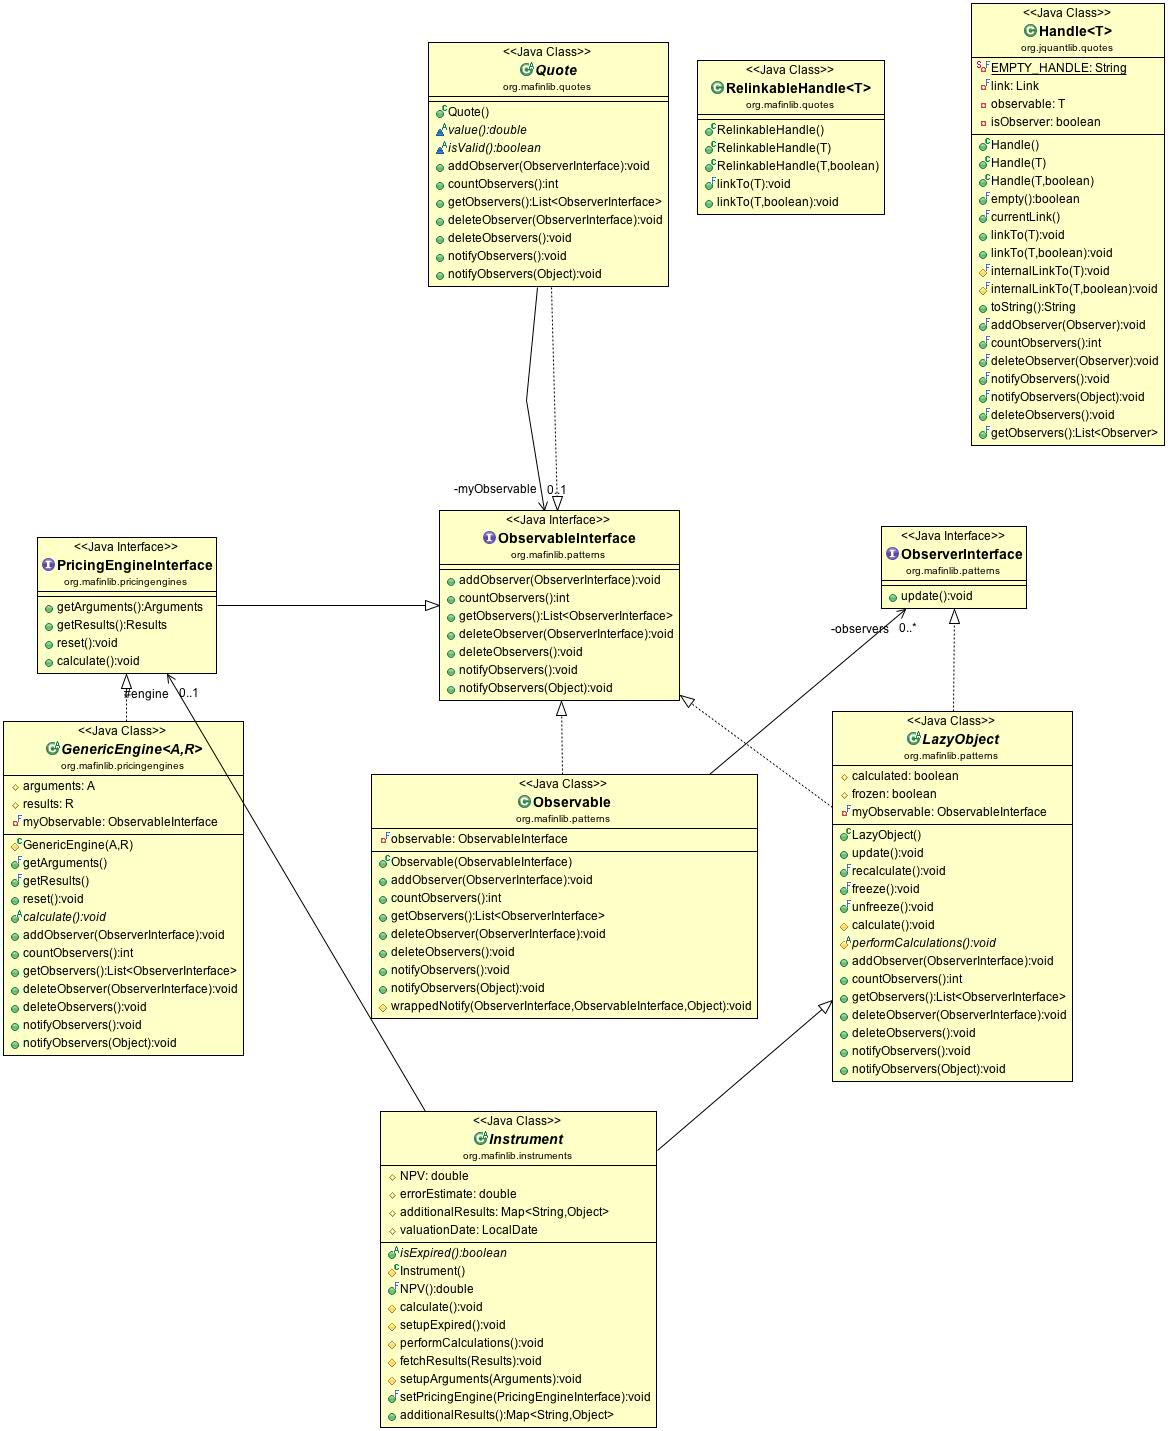
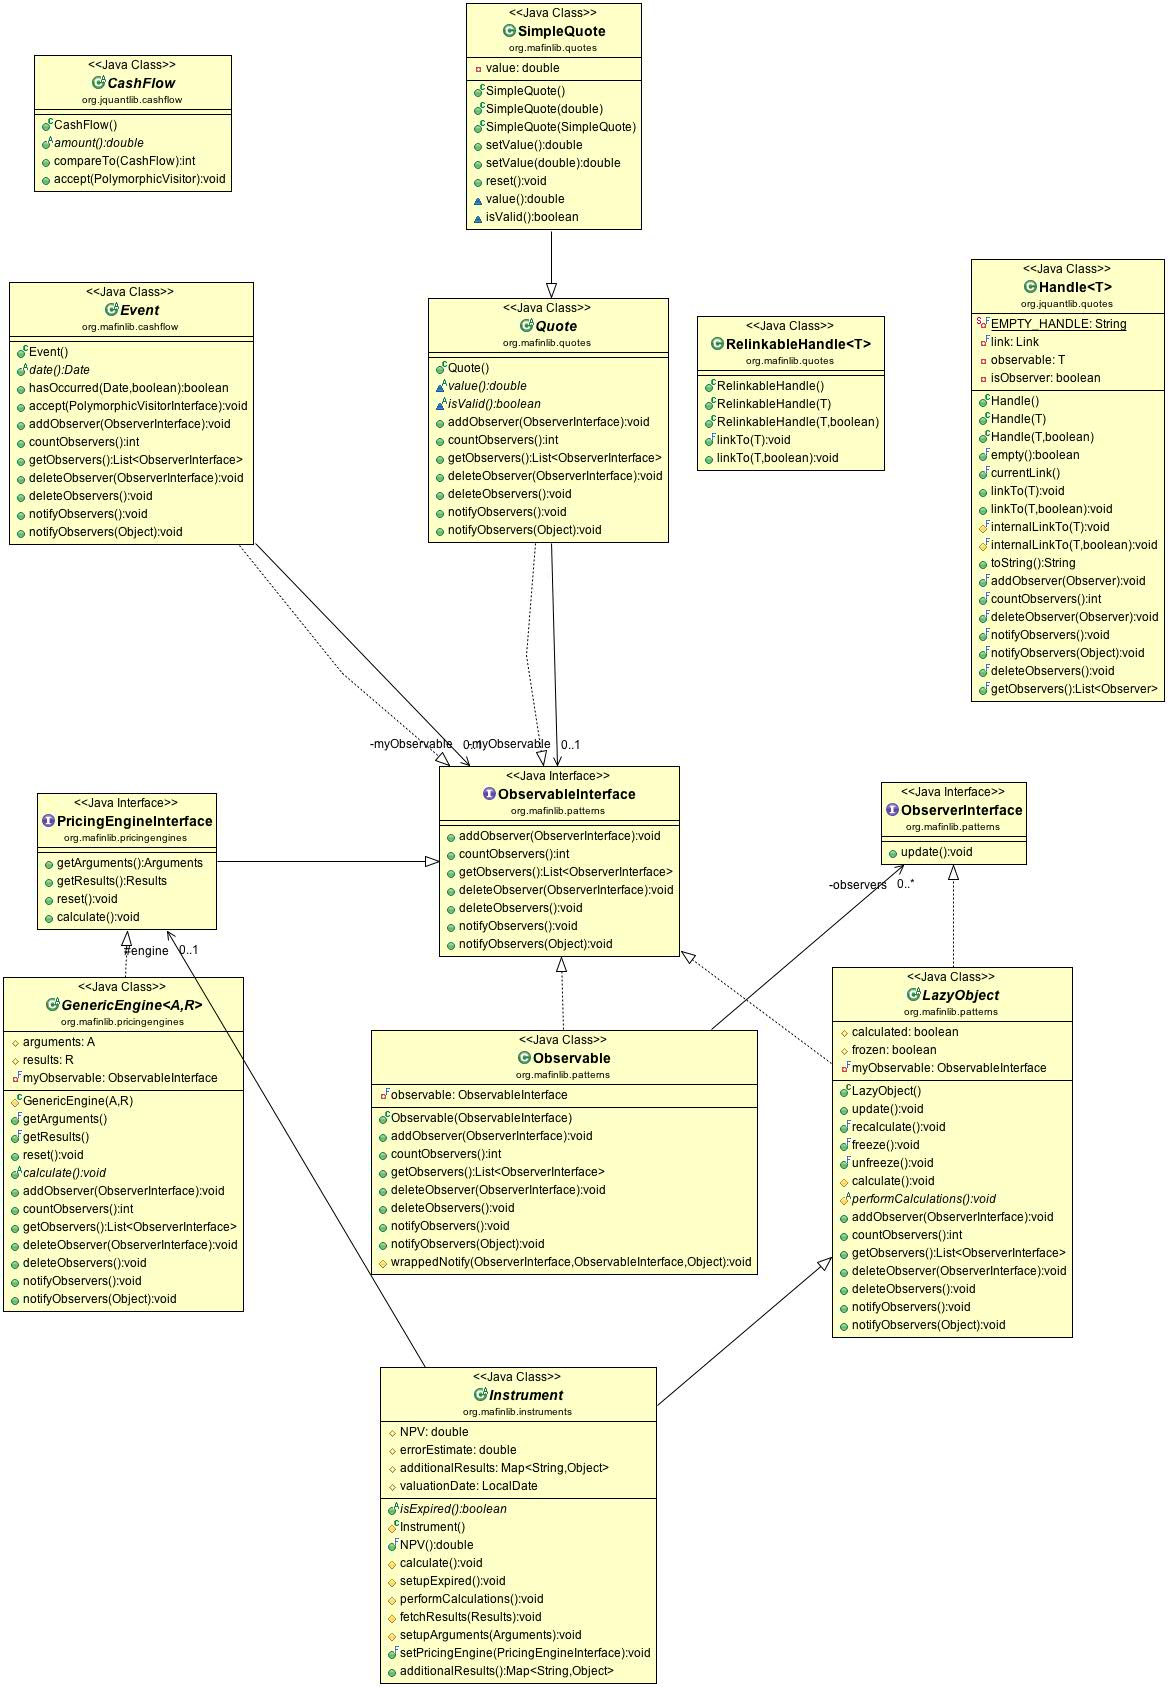
Added class diagram.

diff --git a/mafinlib/src/org/mafinlib/MFL.java b/mafinlib/src/org/mafinlib/MFL.java
@@ -27,7 +27,7 @@ public class MFL {
      * <p>
      * @param condition is a condition to be verified
      * @param message is a message emitted.
-     * @throws a LibraryException if the condition is not met
+     * @throws LibraryException if the condition is not met
      */
     public static void require(
             final boolean condition,
@@ -42,7 +42,7 @@ public class MFL {
      * <p>
      * @param condition is a condition to be verified
      * @param message is a message emitted.
-     * @throws a LibraryException if the condition is not met
+     * @throws LibraryException if the condition is not met
      */
     public static void require(
             final boolean condition,
